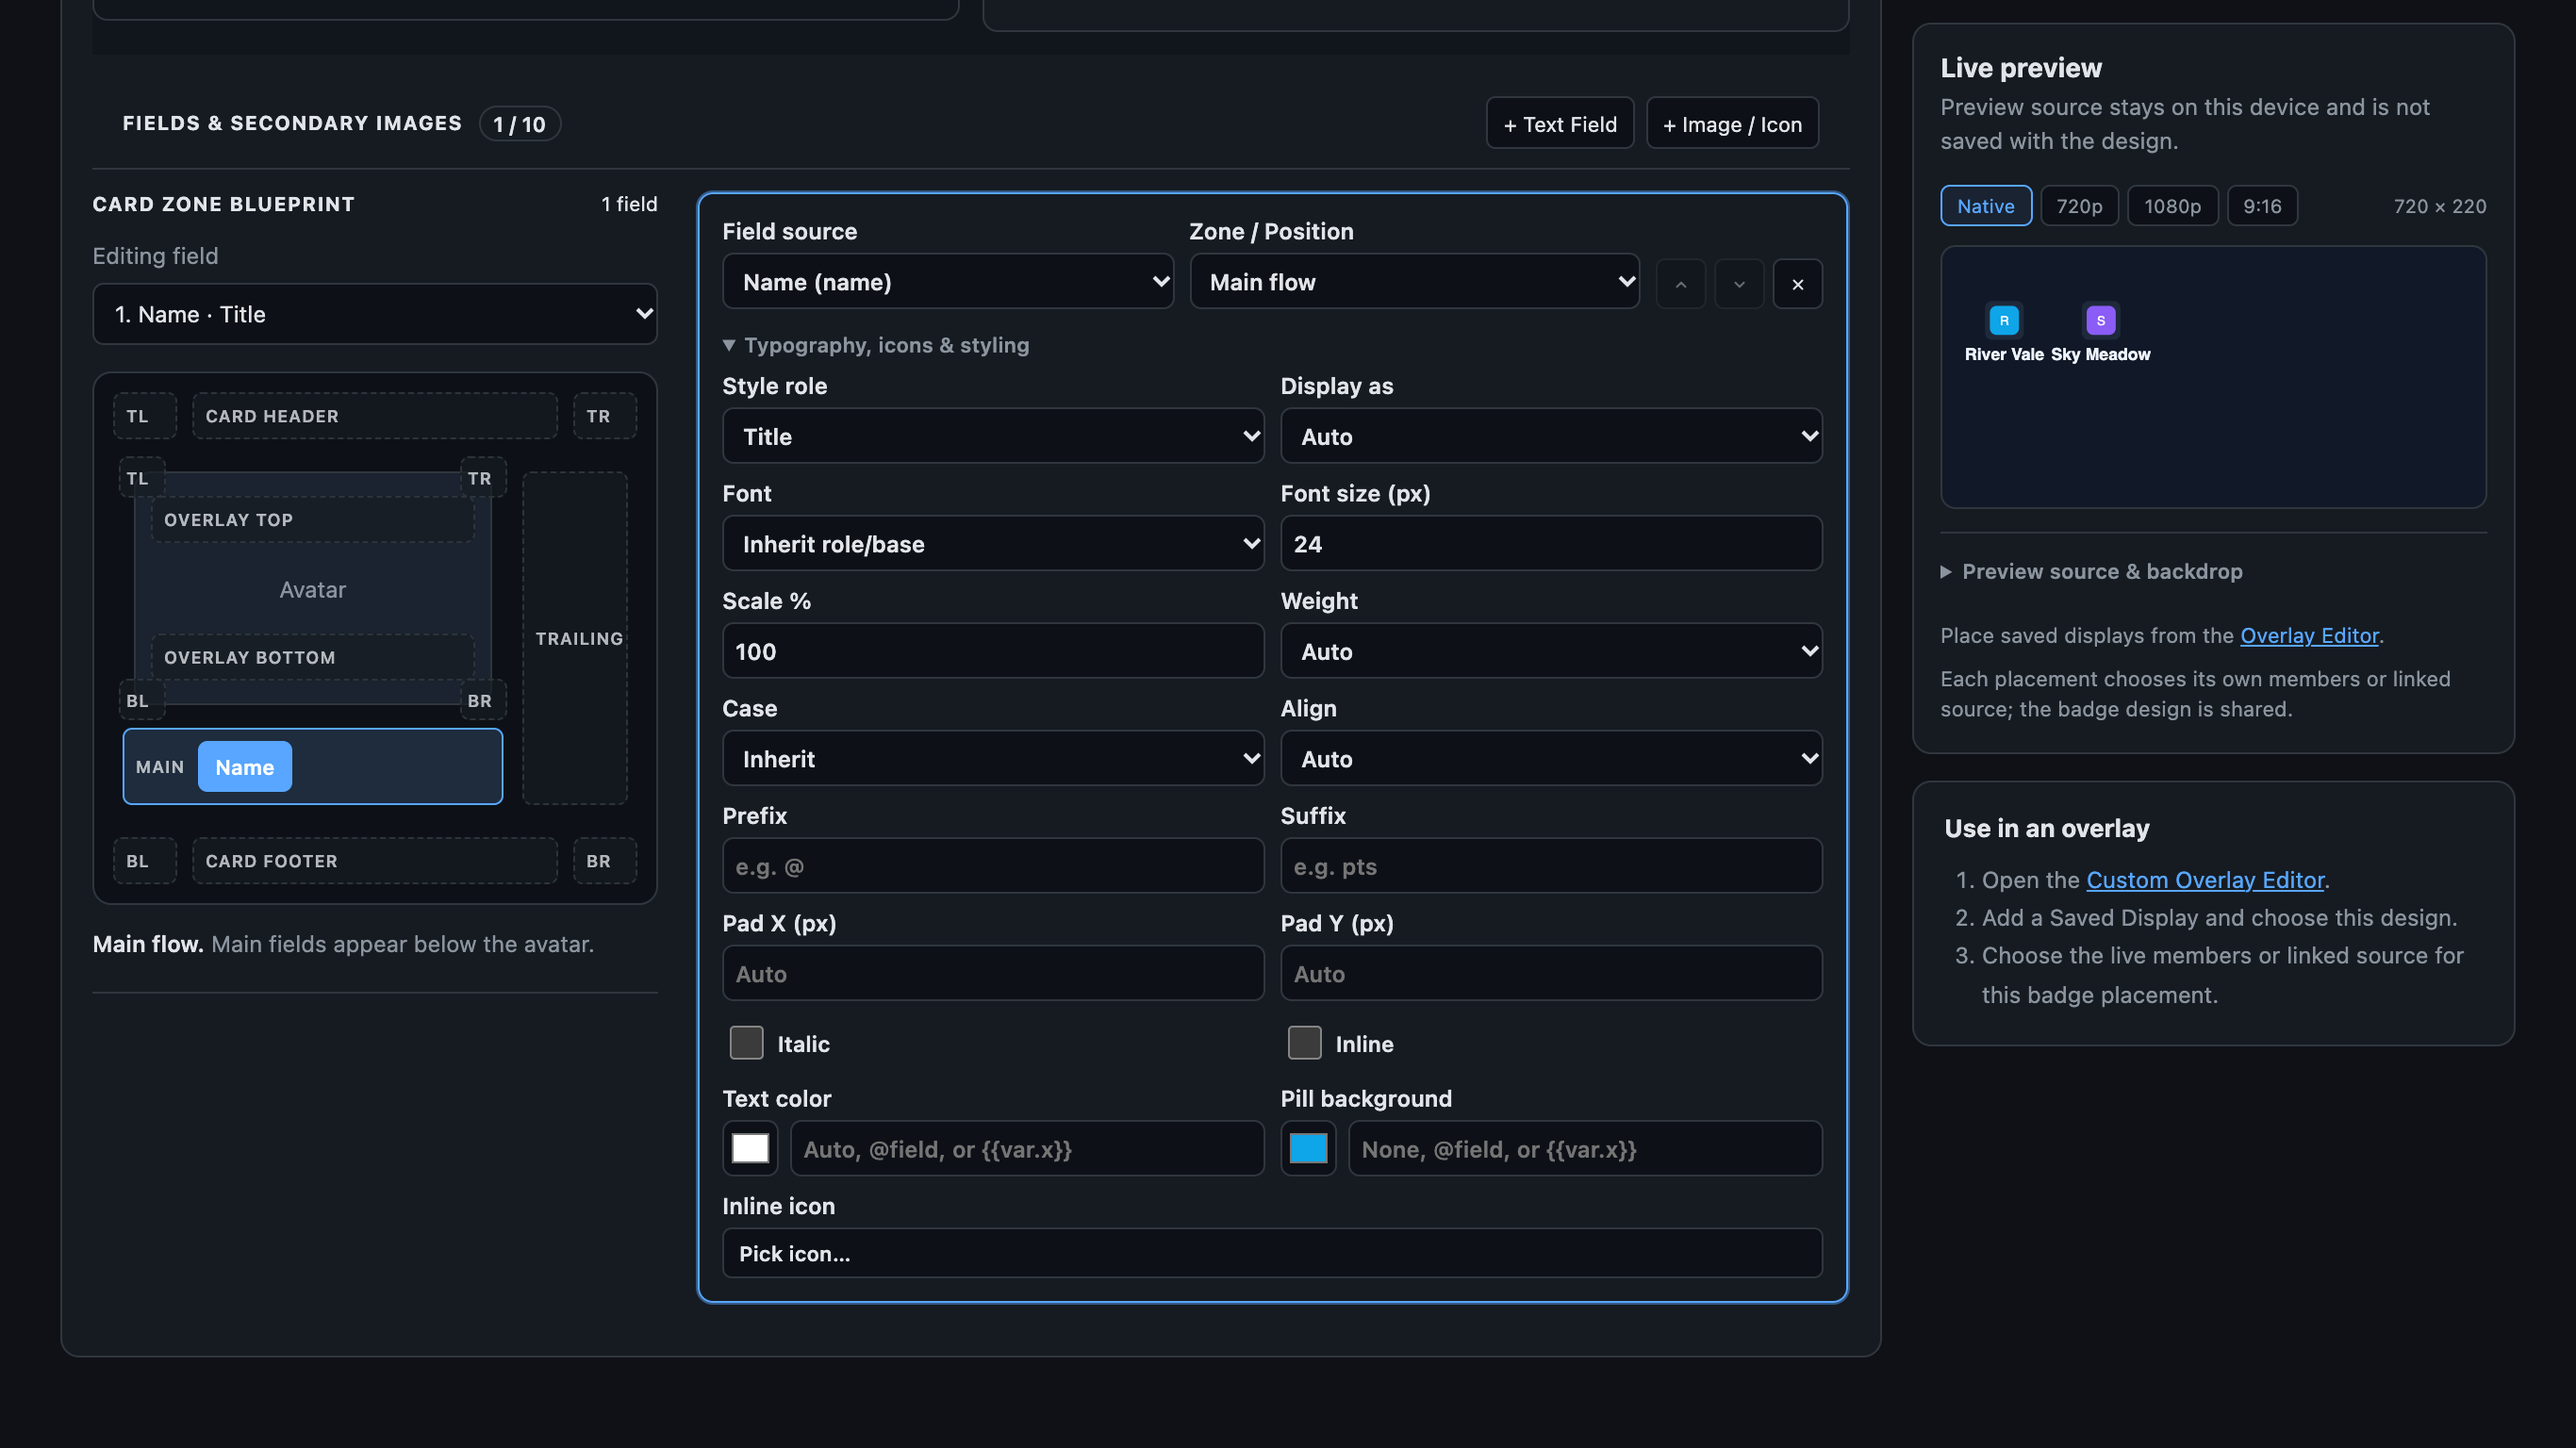
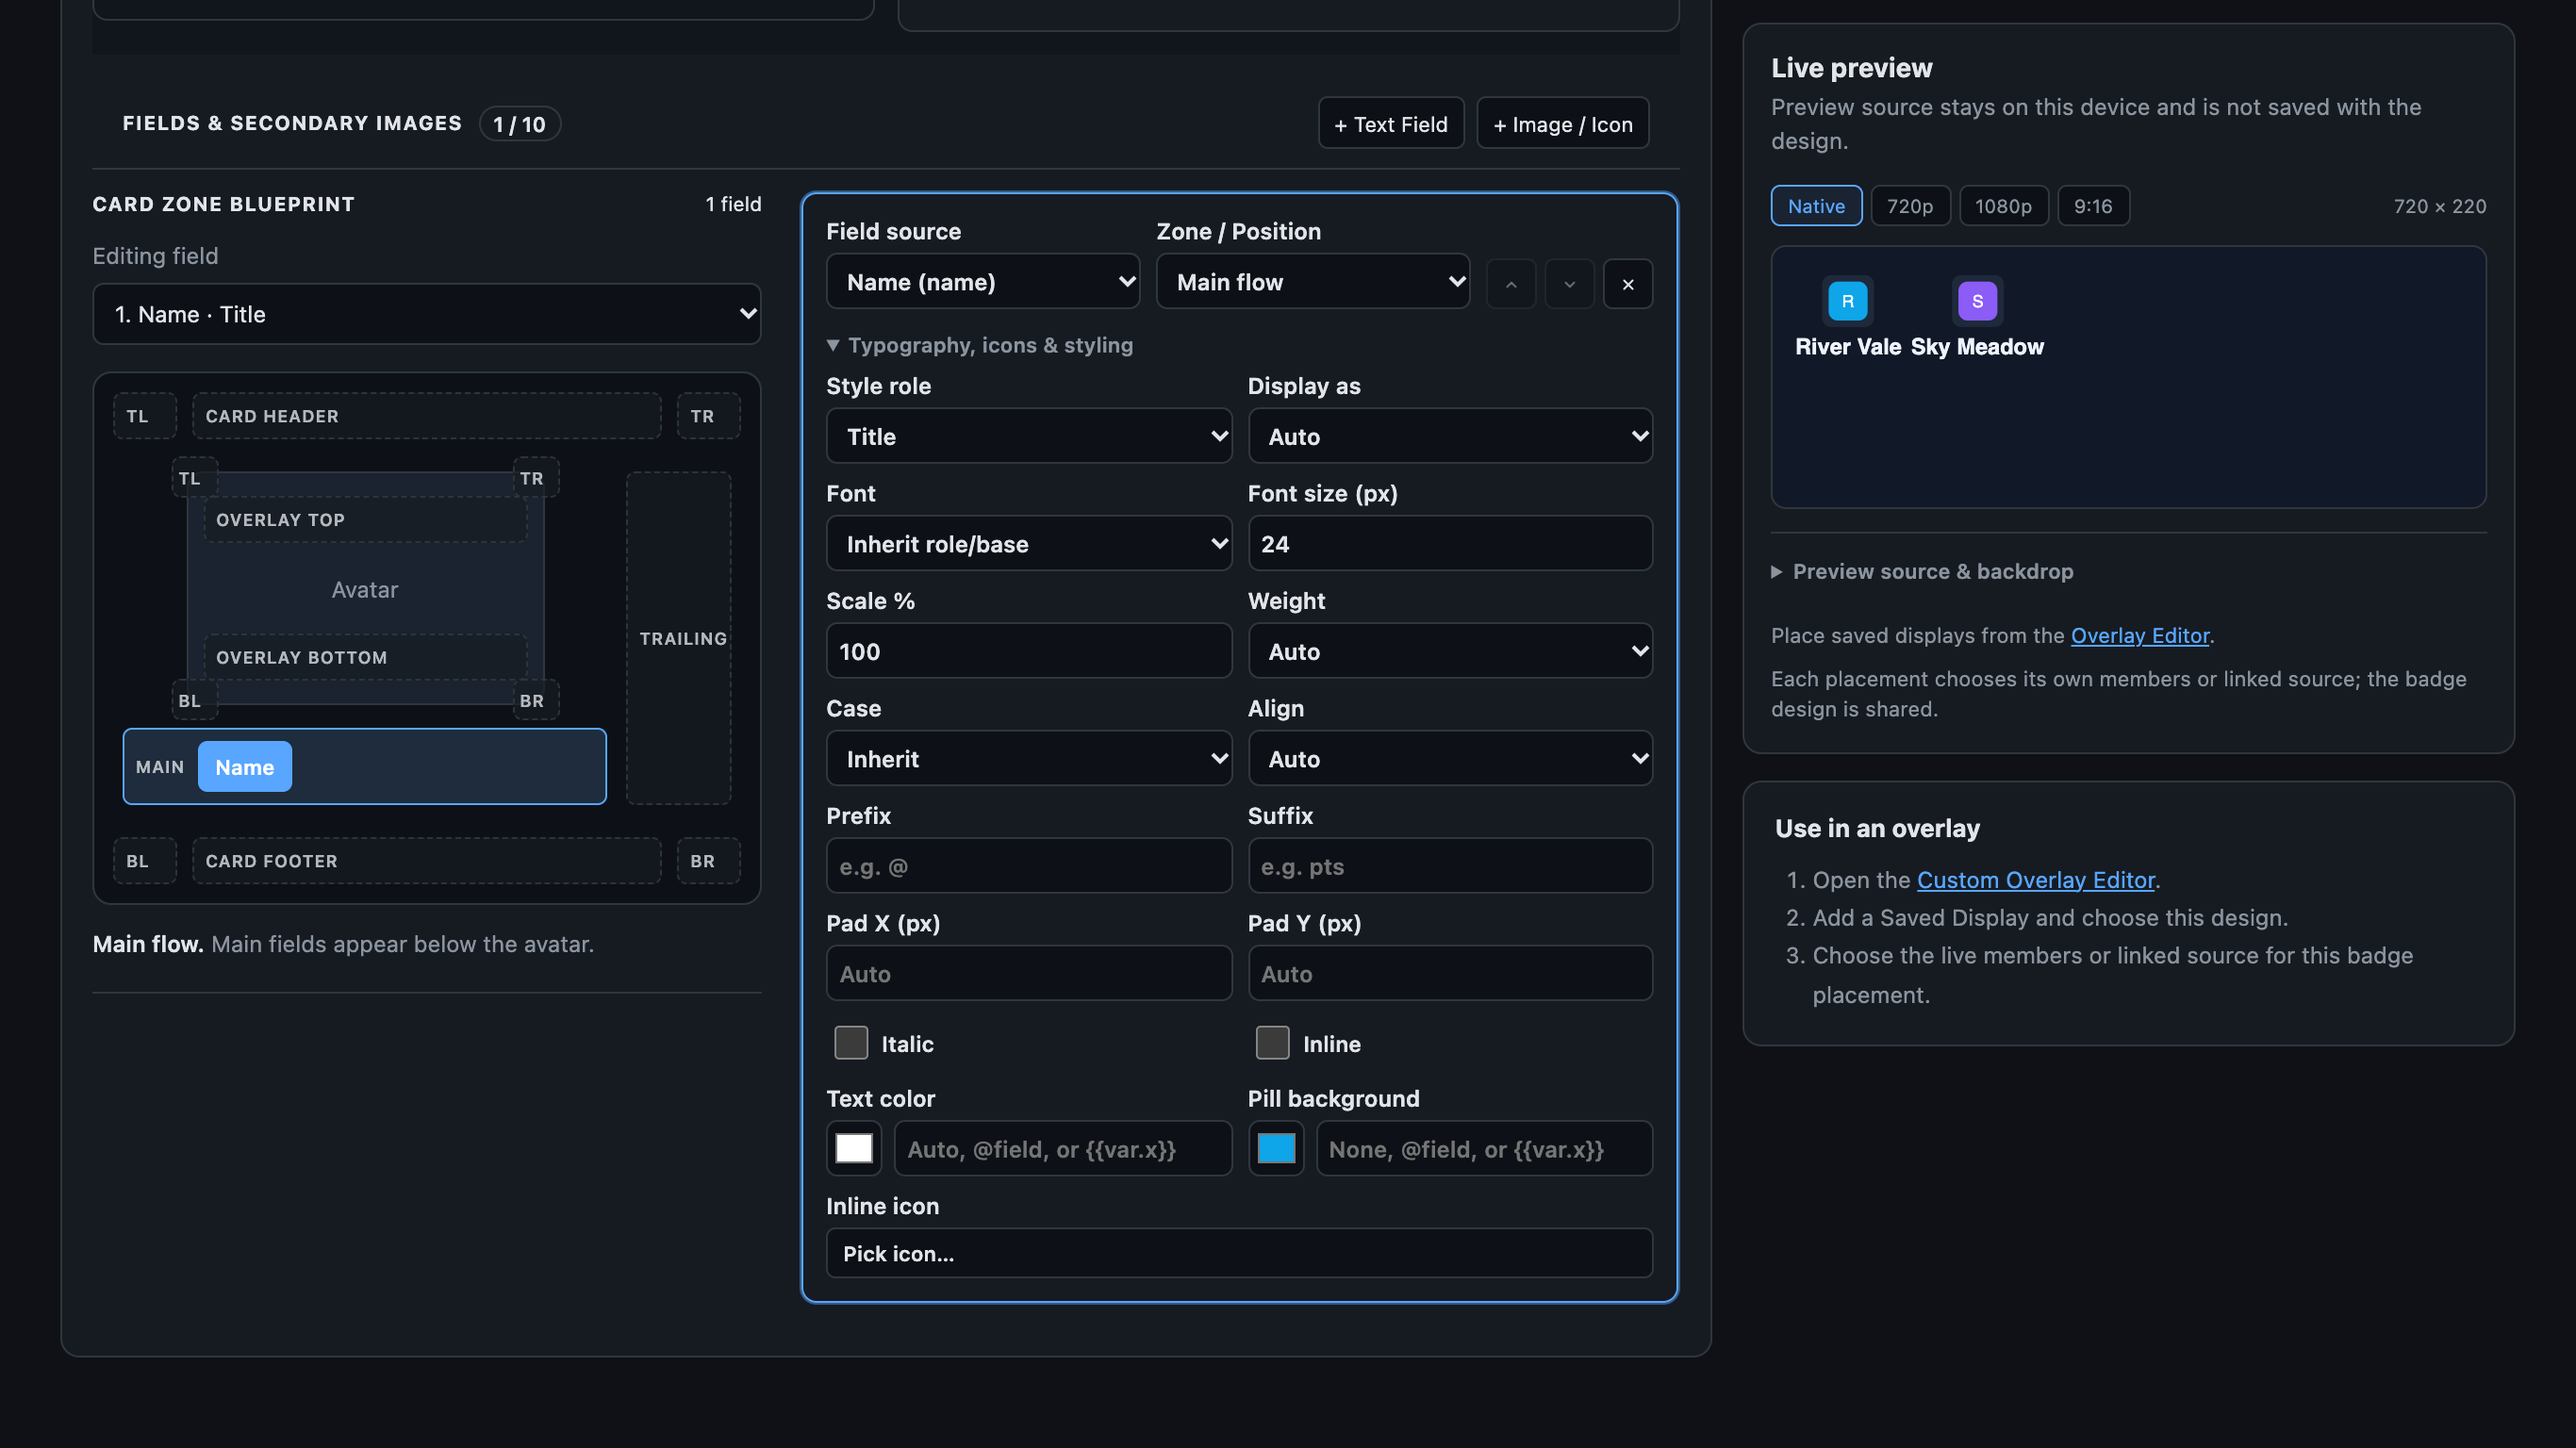
fix: widen badge blueprint and preview columns
Give laptop designers more room for the zone map and live preview while preserving a readable compact field inspector.

diff --git a/public/docs.html b/public/docs.html
@@ -2071,7 +2071,7 @@
                 <div class="card-body">
                     <div class="detail-text">
                         Create a <strong>Badge</strong> in <a href="/variable-displays.html">Display Library</a>, then add it using <strong>Saved Display</strong> in the <a href="/overlay-editor.html" style="color:var(--accent);">Custom Overlay Editor</a>. Badge/strip design now lives in the library; the overlay owns source and placement. Existing Image Group layers migrate to saved designs.<br><br>
-                        • <strong>Design controls:</strong> Edit member fields, placement zones, images, card dimensions and internal spacing in the library. The <strong>Card Zone Blueprint</strong> follows the selected layout and avatar visibility: choose an editing field or its pill, then click a zone to move it. Laptop layouts give the blueprint, field inspector and preview separate columns. <strong>Strip</strong> controls arrangement, wrapping, columns, alignment and gaps between badges. Primary images are optional for text-only stacks. The overlay inspector selects the saved design, its live source and placement-wide styling.<br><br>
+                        • <strong>Design controls:</strong> Edit member fields, placement zones, images, card dimensions and internal spacing in the library. The <strong>Card Zone Blueprint</strong> follows the selected layout and avatar visibility: choose an editing field or its pill, then click a zone to move it. Laptop layouts prioritize wider blueprint and live-preview columns around a compact field inspector; narrower screens stack the panels. <strong>Strip</strong> controls arrangement, wrapping, columns, alignment and gaps between badges. Primary images are optional for text-only stacks. The overlay inspector selects the saved design, its live source and placement-wide styling.<br><br>
                         • <strong>Sources &amp; formatting:</strong> Choose <strong>All entries</strong>, <strong>In Group</strong>, <strong>Linked entries</strong>, or <strong>Tracker items</strong>. Linked sources follow the active entry (Slot 1 on slotted sets), any named/numbered slot, or a fixed entry. Pick roles from one linked catalog; repeated people appear once, even if not marked In Group. Empty sources display nothing. Tracker mode offers <strong>Only Active Items</strong> or <strong>Fixed Grid (Dim Inactive)</strong>; explicit item upgrade definitions supply current labels/images with base-value fallbacks. There are no magic tier field names or image-list conventions. Configure group <code>separator</code>, <code>lastSeparator</code>, and <code>itemTemplate</code> (e.g. <code>{{name}} ({{role}})</code>); empty wrappers around blank fields are stripped automatically.<br><br>
                         • <strong>Inheritance &amp; Live Previews:</strong> Group Strip fields inherit <code>field override → role font → base font</code>. Badge preview uses real roster data and source layer dimensions; Strip preview shows the full live arrangement and explains excluded members rather than faking data. Matrix text animations scramble each field independently.
                     </div>

diff --git a/public/css/variable-displays.css b/public/css/variable-displays.css
@@ -366,6 +366,10 @@ body { min-width: 320px; background: var(--bg-page); color: var(--text); font-fa
     .display-builder[data-kind=badge] .builder-grid { grid-template-columns: minmax(0, 1fr) 320px; }
     .display-builder[data-kind=badge] #badge-designer .ig-builder-right { grid-template-columns: 300px minmax(0, 1fr); }
 }
+@media (min-width: 1320px) {
+    .display-builder[data-kind=badge] .builder-grid { grid-template-columns: minmax(0, 1fr) clamp(400px, 30vw, 460px); }
+    .display-builder[data-kind=badge] #badge-designer .ig-builder-right { grid-template-columns: clamp(350px, 26vw, 380px) minmax(0, 1fr); }
+}
 @media (min-width: 801px) and (max-width: 1199px) {
     .display-builder[data-kind=badge] .builder-grid { grid-template-columns: minmax(0, 1fr); }
     .display-builder[data-kind=badge] .builder-preview-column { position: static; grid-template-columns: repeat(2, minmax(0, 1fr)); }

diff --git a/docs/variable-displays.md b/docs/variable-displays.md
@@ -39,7 +39,7 @@ Choose column labels, proportions, alignment and presentation for text, images, 
 
 Choose **Badge** for reusable member cards and strips. Badge fields, images, zones, presets, typography and visual styling live in Display Library rather than an overlay dialog. Place a Saved Display and choose its live source in the overlay inspector; use **Edit display** to return to the designer.
 
-The **Card Zone Blueprint** follows the selected badge layout and avatar visibility. Choose an editing field or click its pill, then click a zone to move it. On laptop screens the blueprint, selected field inspector and live preview use separate columns, so the map does not consume the field editor's height. **Strip** arranges multiple badges; **Appearance** styles the member cards, avatars and field defaults.
+The **Card Zone Blueprint** follows the selected badge layout and avatar visibility. Choose an editing field or click its pill, then click a zone to move it. On laptop screens the blueprint and live preview have wider columns around a compact field inspector, so the map does not consume the field editor's height. Narrower screens stack the panels. **Strip** arranges multiple badges; **Appearance** styles the member cards, avatars and field defaults.
 
 Existing badge/strip layers are migrated to reusable designs while their placement-specific sources and geometry remain with the overlay. Sharing one design between scenes no longer requires separately maintaining every copy's field layout.
 
